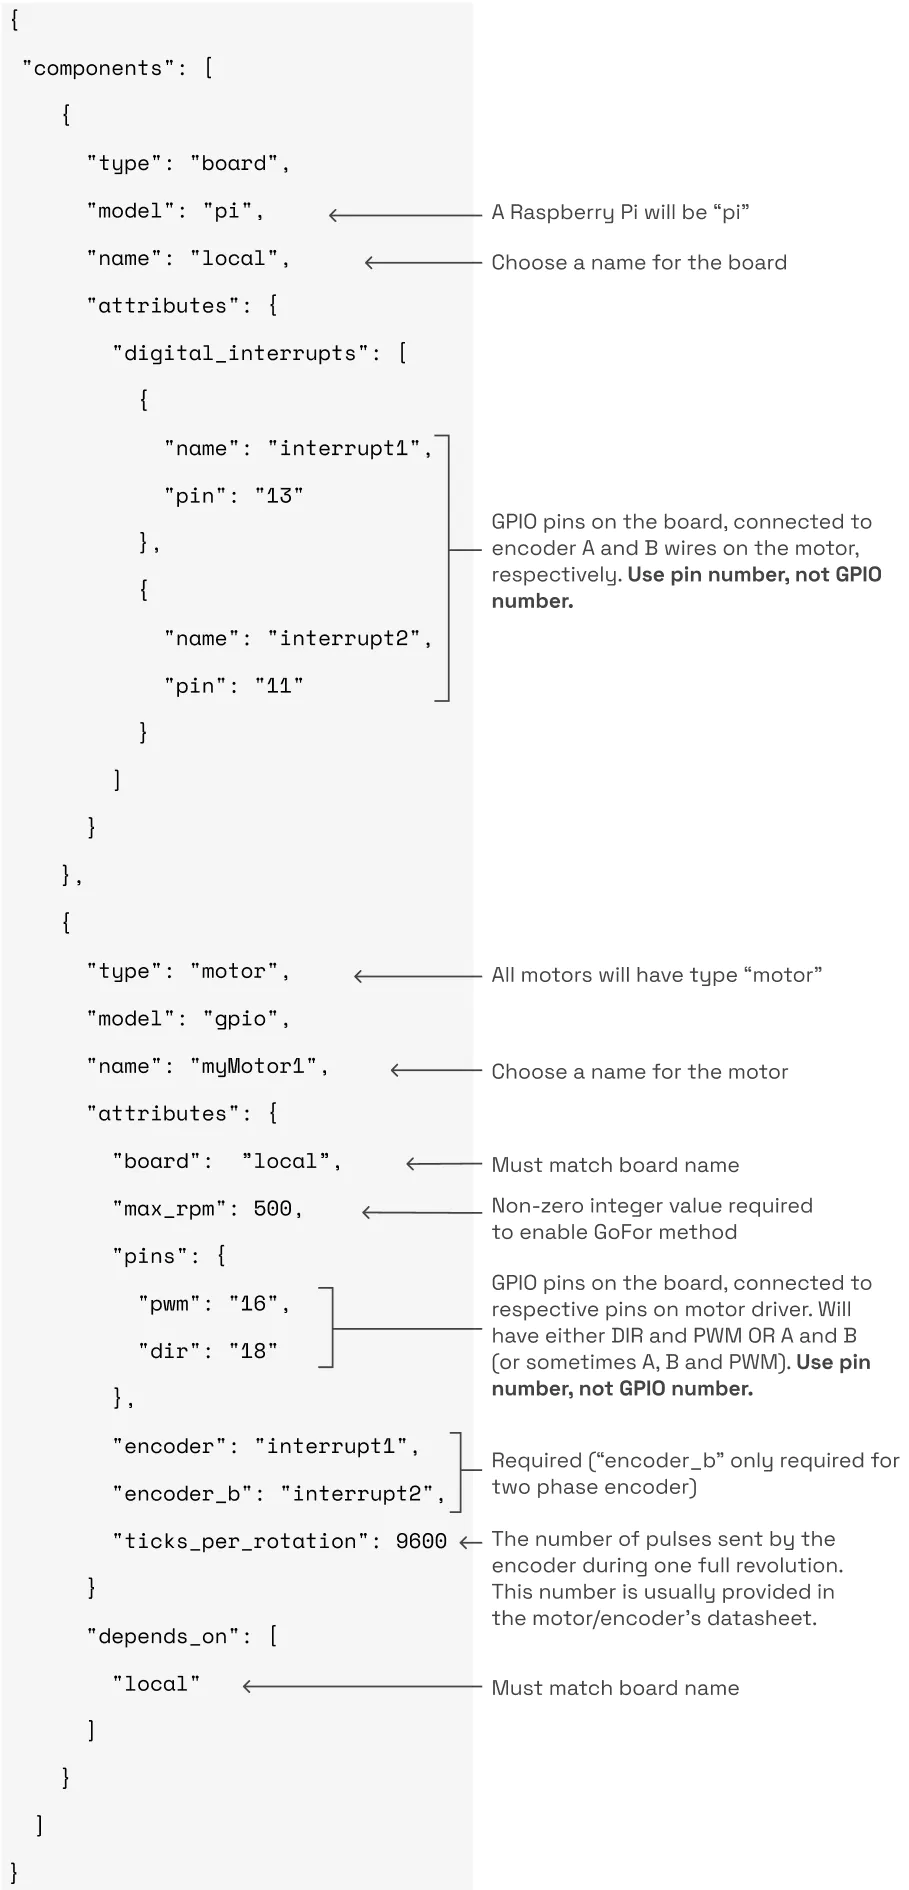
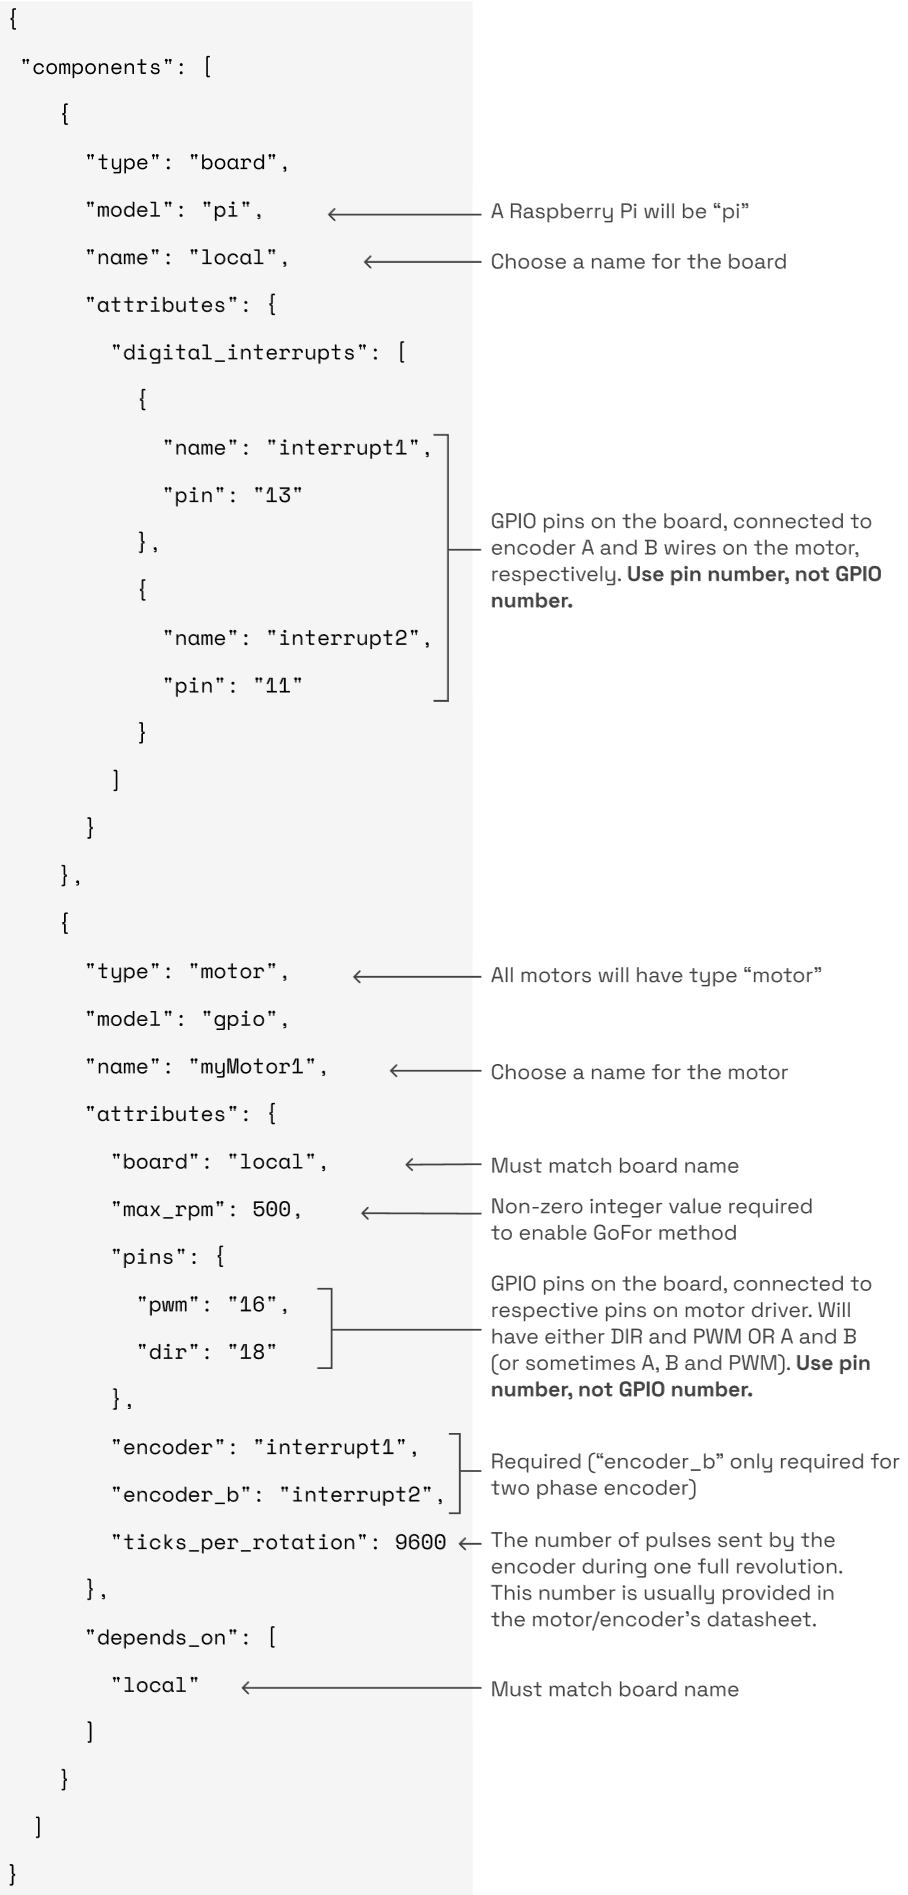
add motor and servo raw JSON to copy, fix commas

diff --git a/docs/components/motor.md b/docs/components/motor.md
@@ -60,6 +60,7 @@ The signal wires in the diagram run from two GPIO pins on the Pi to the DIR and 
 A brushed DC motor without an encoder should be configured with “gpio” as the model. Most motor types require a “board” attribute, and also need to depend on that same board. For example:  
 
 ![motor-gpio-json](img/motor-gpio-json.png)  
+[Click here for the raw JSON.](example-configs/motor-gpio-config.json)
 
 `max_rpm` (float64): For non-encoded motors, this is an estimate of the maximum RPM the motor will run at with full power under no load. (For encoded motors, it actually limits the motor to that speed.) If unknown, it can be set to zero but this will render the “GoFor” method unusable.
 
@@ -97,6 +98,7 @@ An encoder is a device that is integrated with a motor to sense the angular posi
 Viam supports a brushed or brushless DC motor with a quadrature encoder within model “gpio.” Configuration of a quadrature encoder requires digital interrupts on the board for A and B in addition to the standard “gpio” model attributes. Single pin encoders require configuring one digital interrupt. Here’s an example config file:  
 
 ![motor-encoded-dc-json](img/motor-encoded-dc-json.png)  
+[Click here for the raw JSON.](example-configs/motor-encoded-config.json)
 
 #### Optional Attributes
 
@@ -123,6 +125,7 @@ In this particular example the enable pin on the upper left corner of the driver
 Viam supports steppers controlled in one of two ways: a basic stepper driver chip that takes step and DIR input via GPIO and simply moves one step per pulse, or more advanced chips (ex: TMC5072, DMC4000) that have their own microcontrollers that conveniently handle things like speed and acceleration control. Here’s an example of a basic stepper driver config:  
 
 ![motor-gpiostepper-json](img/motor-gpiostepper-json.png)  
+[Click here for the raw JSON.](example-configs/motor-gpiostepper-config.json)
 
 #### Optional Attributes
 `stepper_delay` (uint): Time in microseconds to remain high for each step. Default is 20.

diff --git a/docs/components/servo.md b/docs/components/servo.md
@@ -32,6 +32,7 @@ Here's an example of how a servo might be wired to a Raspberry Pi:
 An example configuration file containing the necessary attributes is as follows:  
 
 ![servo-JSON](img/servo-json.png)
+[Click here for the raw JSON.](example-configs/servo-config.json)
 
 ### Optional Attributes
 `min` (int): Specifies the minimum angle in degrees to which the servo can move  
